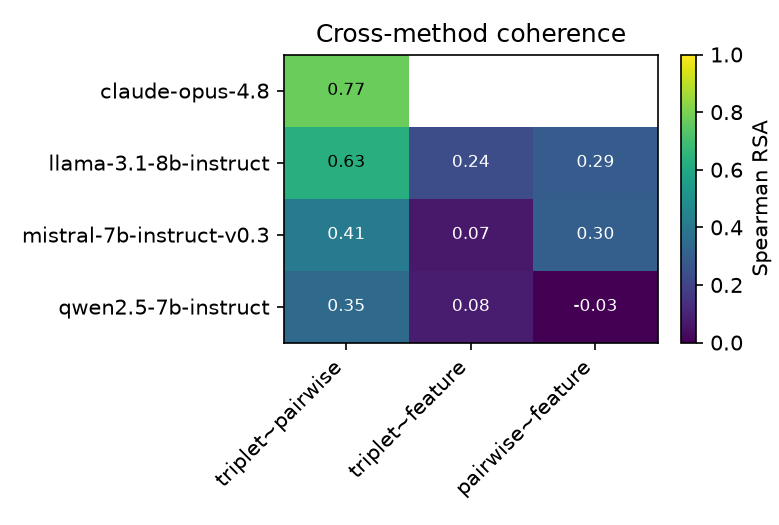
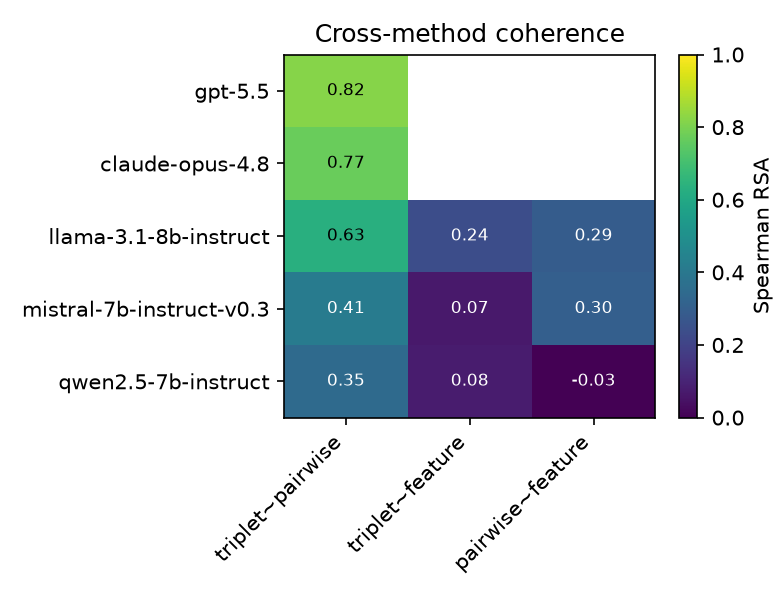
Final v1: 5-model coherence matrix (gpt-5.5, opus-4.8 + 3 local 8B) + RESULTS.md

diff --git a/results/coherence/RESULTS.md b/results/coherence/RESULTS.md
@@ -1,0 +1,46 @@
+# Coherence results (v1)
+
+Bridge data for dissertation chapters 1<->2. Re-run of the three semantic
+elicitation methods from arXiv:2510.01030 on new models, over the 30 concepts
+(15 reptiles + 15 tools), 3000 triplets + 900 pairs.
+
+## Models
+- Local (vLLM, shared_models): llama-3.1-8b-instruct, mistral-7b-instruct-v0.3,
+  qwen2.5-7b-instruct
+- Frontier (OpenRouter): claude-opus-4.8, gpt-5.5 (triplet + pairwise only so far)
+
+## Headline: cross-method coherence (triplet vs pairwise RSA)
+| model | triplet~pairwise | FastText RSA (pairwise) | Procrustes R^2 (triplet) |
+|---|---|---|---|
+| gpt-5.5                | 0.818 | 0.602 | 0.364 |
+| claude-opus-4.8        | 0.772 | 0.641 | 0.437 |
+| llama-3.1-8b-instruct  | 0.630 | 0.468 | 0.470 |
+| mistral-7b-instruct-v0.3 | 0.415 | 0.487 | 0.484 |
+| qwen2.5-7b-instruct    | 0.346 | 0.444 | 0.502 |
+
+Frontier models are much more internally coherent across methods than the 8B
+open models. Small-model ordering is sensible (Llama-3.1 > Mistral-7B > Qwen2.5-7B
+on triplet~pairwise consistency).
+
+## Figures / tables
+- `method_matrices.png` : per-model 3x3 method-agreement (triplet, pairwise, feature).
+- `coherence_matrix.csv` : all metrics per model.
+- `summary_reliable.csv` : the table above.
+
+## Caveats
+1. **Feature verification is interim.** The Leuven-derived 764-feature list barely
+   describes tools, so even a 36-feature discriminative subset (12-30% true-rate)
+   yields low triplet~feature agreement (0.07-0.24). Feature method was NOT run on
+   the frontier models (saving API cost) pending a ground-truth concept x feature
+   key or a tool-aware feature list from the user.
+2. **Human reference is a FastText proxy**, not human judgments. All `fasttext_*`
+   columns are alignment to that proxy. Swap in real human data on these 30
+   concepts via `--human_rdm` when available.
+3. Procrustes R^2 uses metric MDS on the derived similarity (lightweight stand-in
+   for the paper's ordinal embedding); RSA is the more directly comparable number.
+
+## Reproduce
+Local:   `scripts/run_all_local.sh 200 <model...>`
+Frontier: `OPENROUTER_API_KEY=... python src/run_openrouter.py --model gpt-5.5 --methods triplet pairwise`
+Analyze: `python src/compute_coherence.py --human_rdm data/human/fasttext_similarity.npy --human_embedding data/human/fasttext_embedding.npy --ref_name fasttext`
+         `python src/method_matrix.py`
